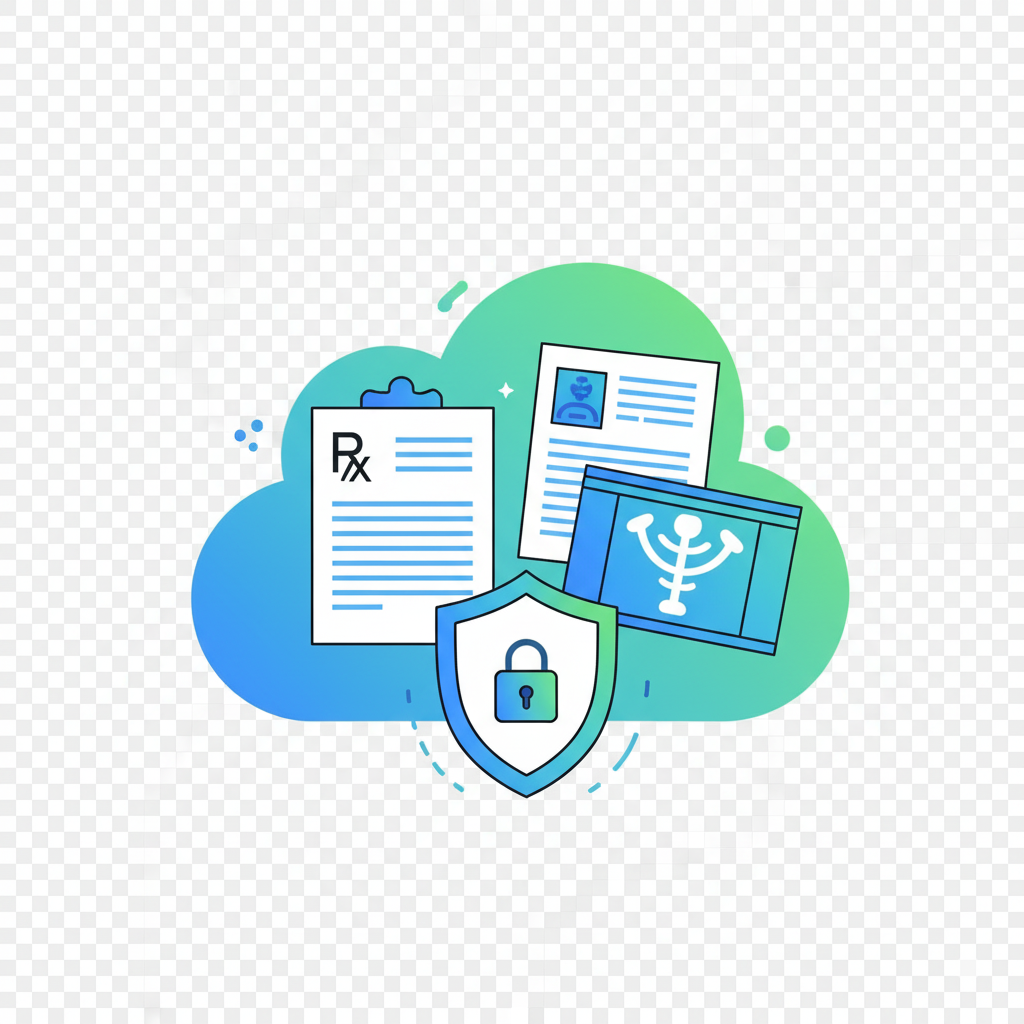
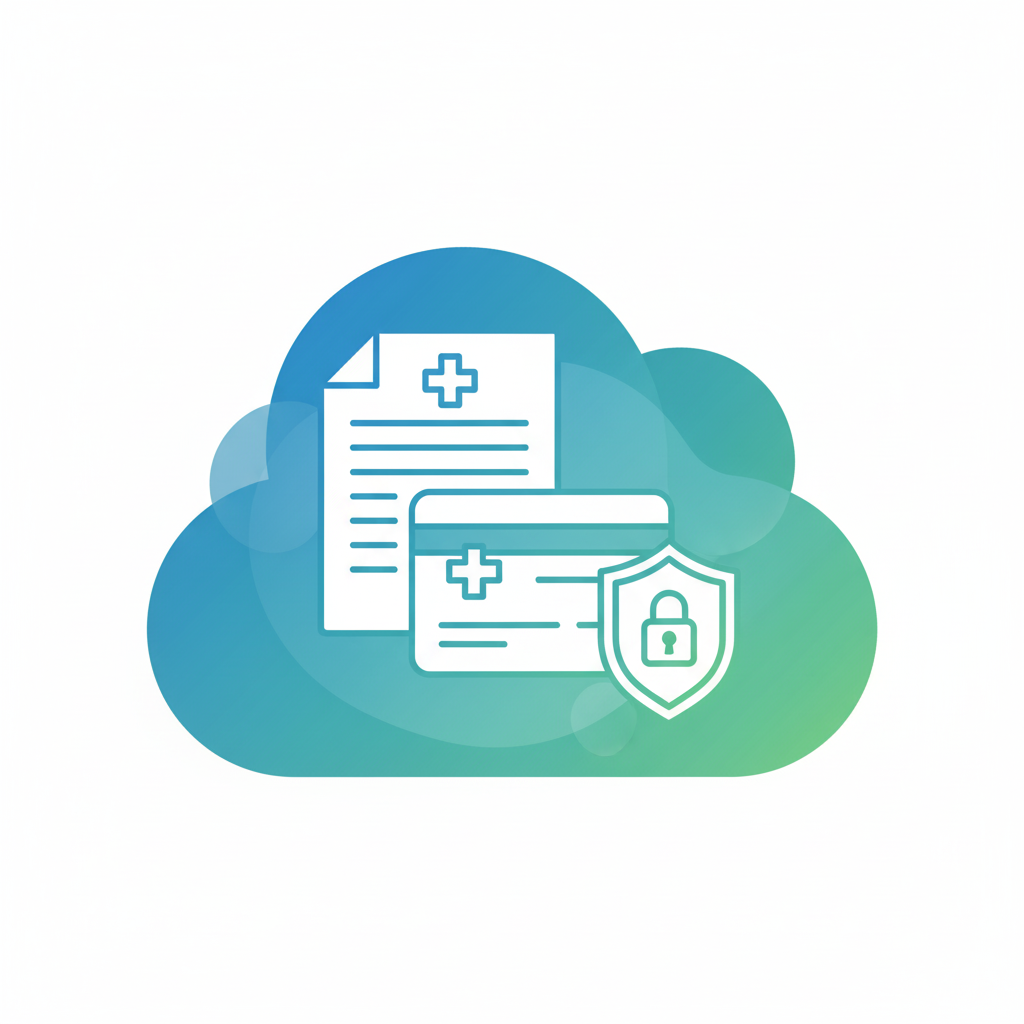
fixing images

Changed region(s): [[0.125, 0.2188, 0.875, 0.7812]]

diff --git a/src/screens/Onboardingscreen3.js b/src/screens/Onboardingscreen3.js
@@ -26,7 +26,7 @@ export default function OnboardingScreen3({ navigation }) {
       </Text>
       <View style={styles.imageContainer}>
         <Image
-          source={require("../../assets/screen3.png")} 
+          source={require("../../assets/3.png")} 
           style={styles.image}
           resizeMode="contain"
         />
